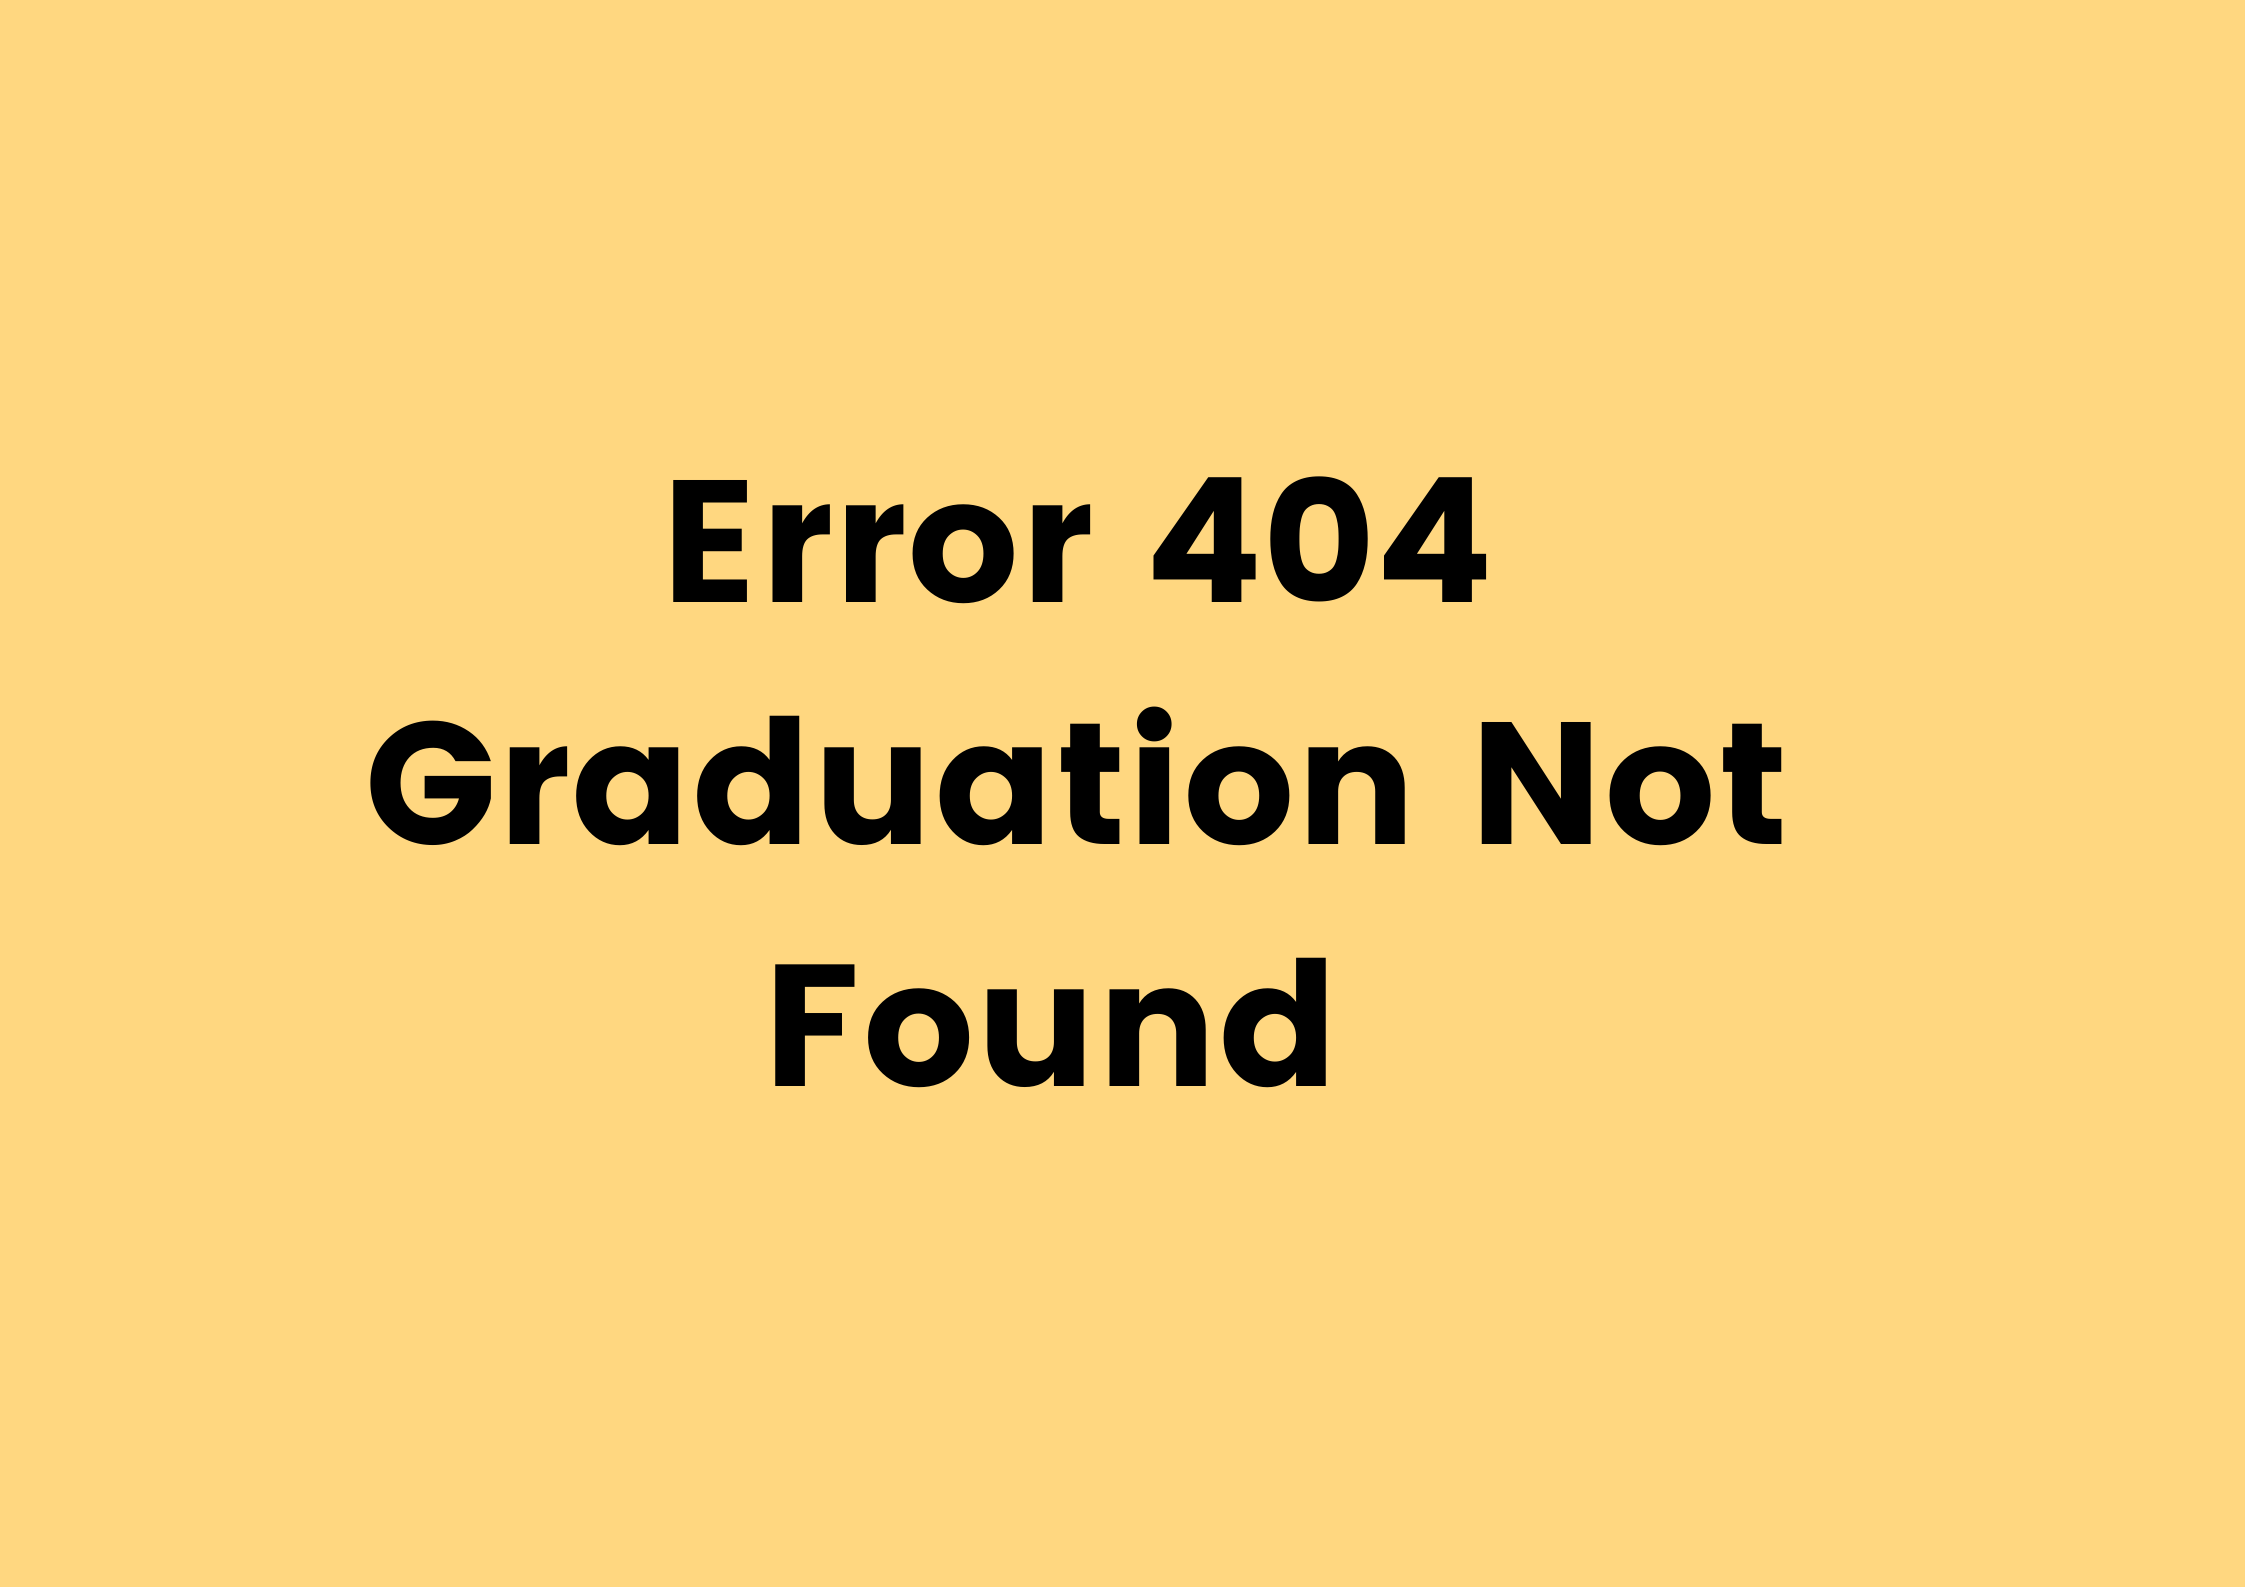
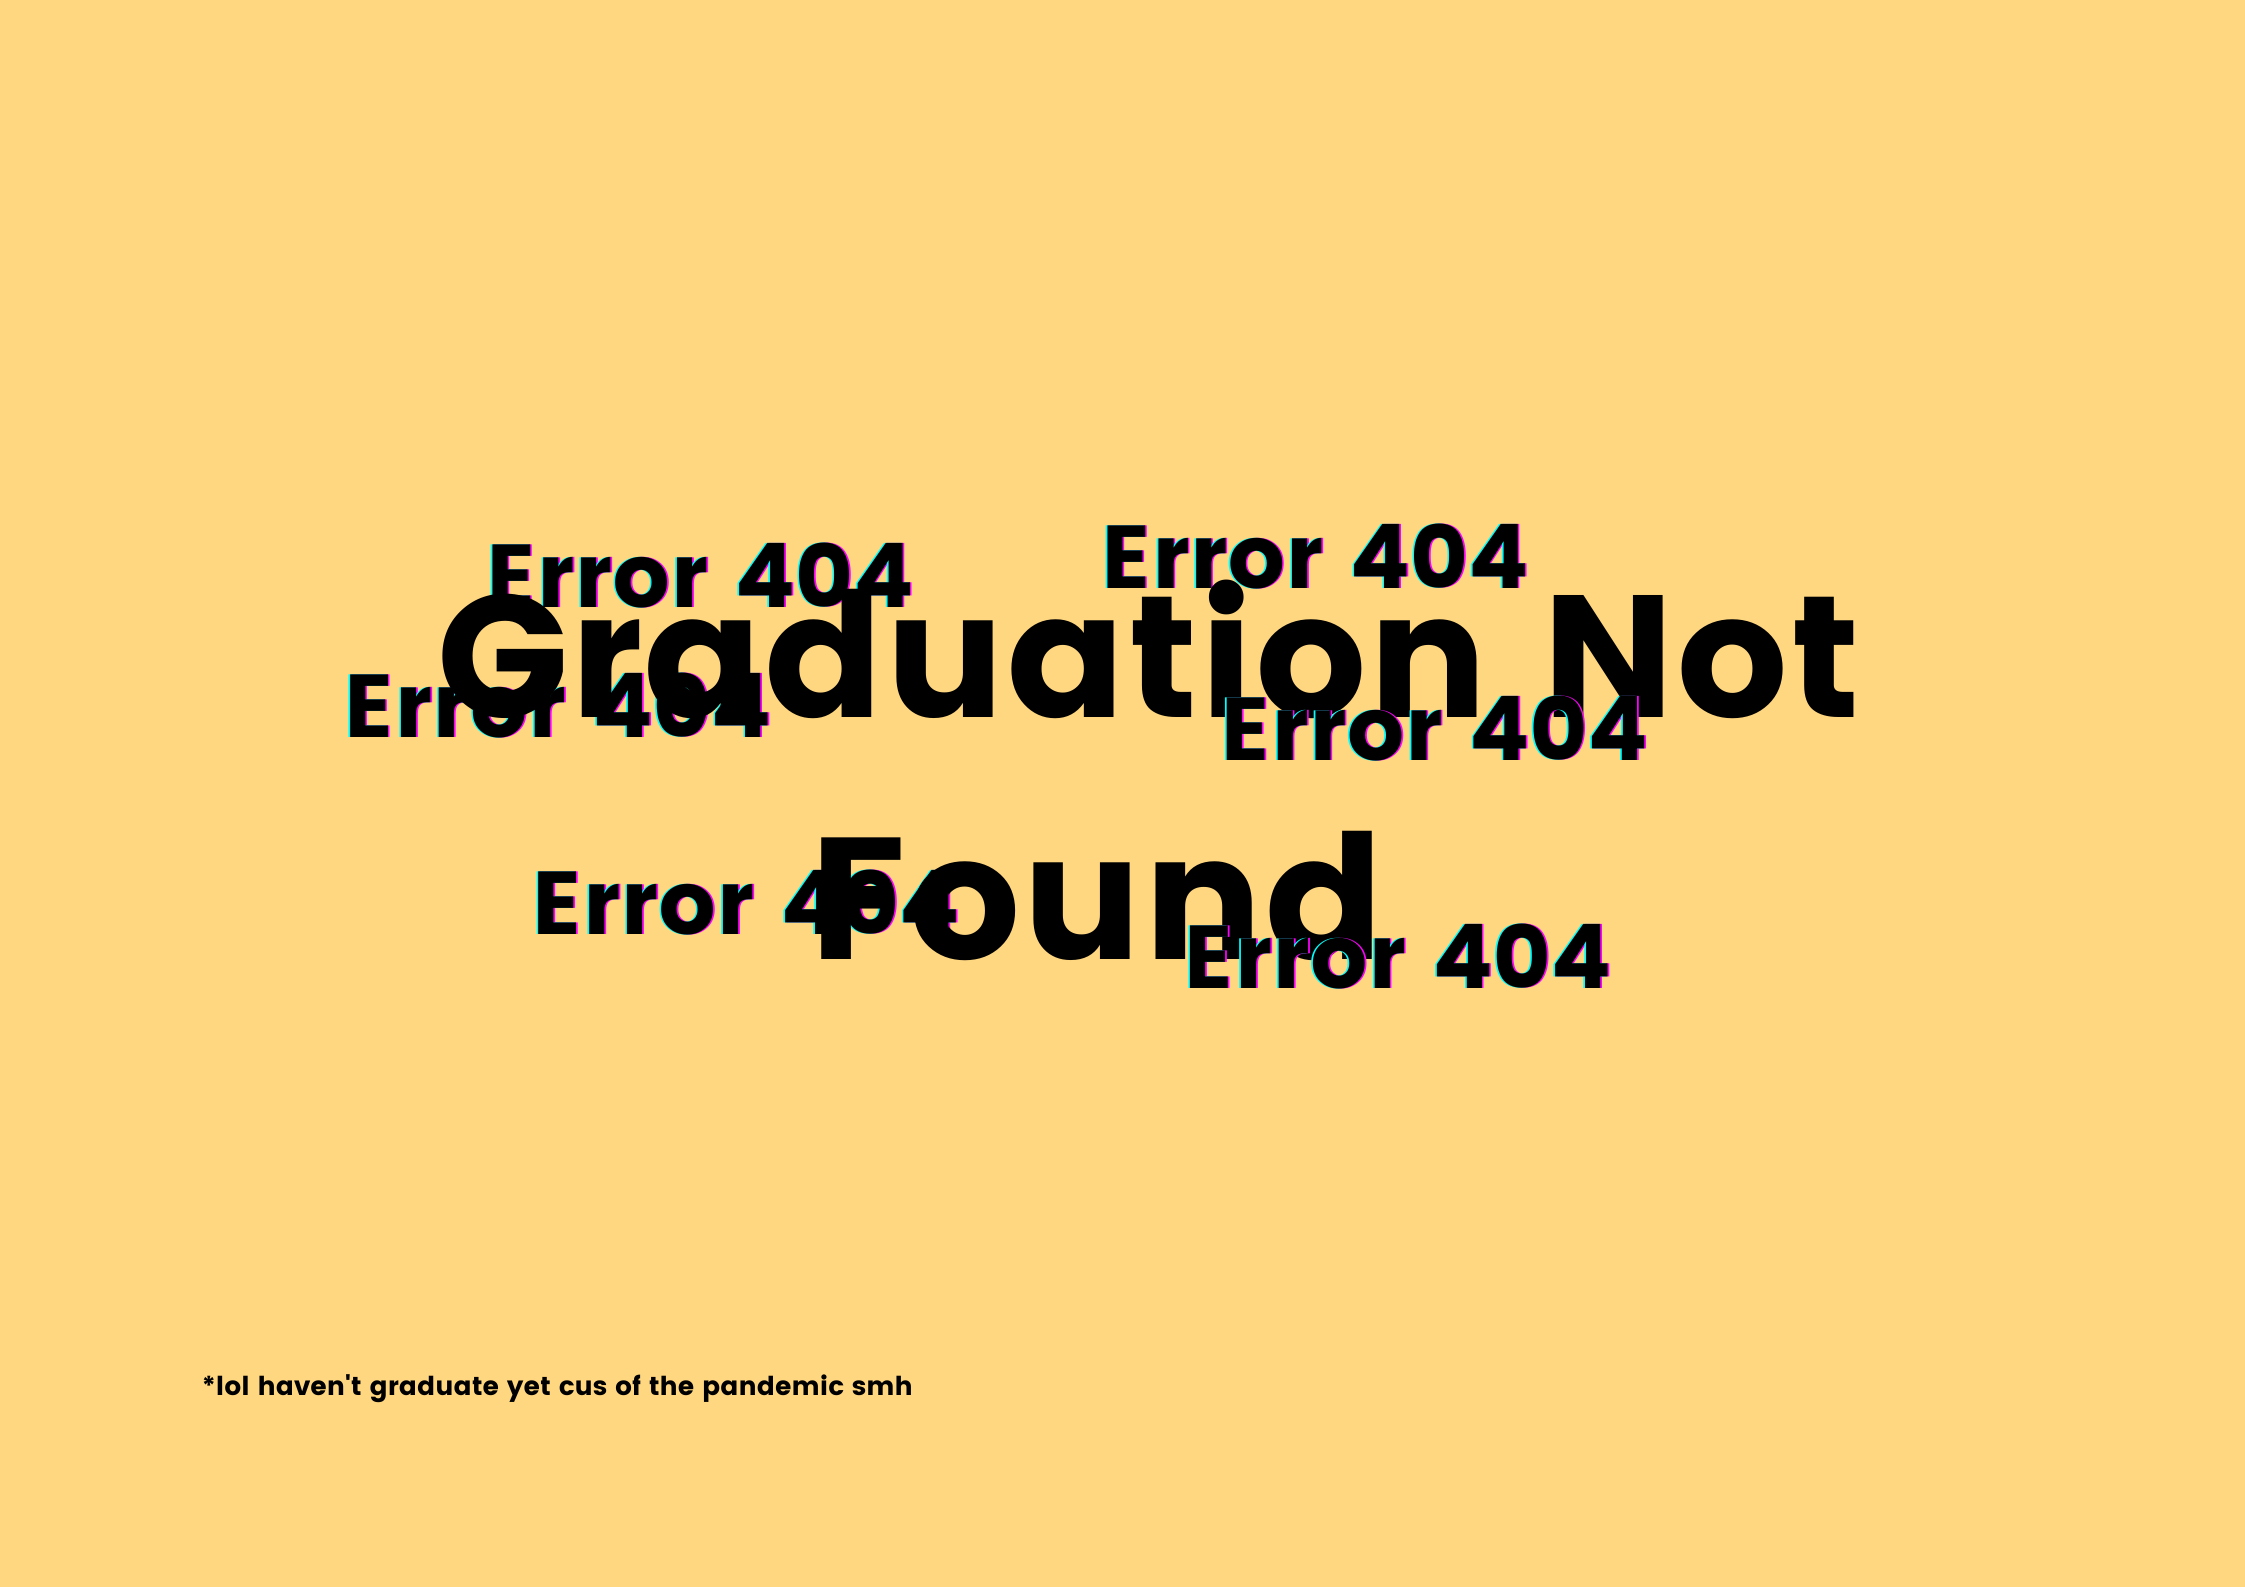
commit lol

Changed region(s): [[0.1559, 0.2779, 0.8419, 0.7101], [0.0935, 0.8645, 0.4053, 0.8954]]

diff --git a/css/main.css b/css/main.css
@@ -2,7 +2,7 @@
 body {
   height: 100vh;
   margin: 0;
-  font-family: "Poppins", arial;
+  font-family: 'Poppins', arial;
   background-color: #fff0c6;
 }
 
@@ -23,25 +23,36 @@ img {
 .nav-container {
   background: #292e43;
 }
+
 .nav-container a {
   color: #ef8b20;
 }
 
 header {
+  display: -webkit-box;
+  display: -ms-flexbox;
   display: flex;
-  justify-content: space-between;
+  -webkit-box-pack: justify;
+      -ms-flex-pack: justify;
+          justify-content: space-between;
   padding: 2em;
 }
+
 header .logo {
   color: #ef8b20;
   font-weight: bold;
 }
+
 header nav {
   float: right;
 }
+
 header nav ul {
+  display: -webkit-box;
+  display: -ms-flexbox;
   display: flex;
 }
+
 header nav ul a {
   display: block;
   padding: 0 1em;
@@ -54,6 +65,7 @@ header nav ul a {
 .hero {
   background: #292e43;
   color: #ef8b20;
+  display: -ms-grid;
   display: grid;
   text-align: center;
   padding: 4em;
@@ -72,15 +84,15 @@ section {
   text-transform: uppercase;
   font-weight: bold;
   color: purple;
-  letter-spacing: 0.2em;
-  font-size: 0.85em;
+  letter-spacing: .2em;
+  font-size: .85em;
 }
 
 .featured-title {
   color: black;
   font-weight: bold;
   font-size: 1.3em;
-  margin-top: -0.4em;
+  margin-top: -.4em;
   display: block;
 }
 
@@ -88,7 +100,7 @@ section {
   color: 3b3b3b;
   margin-bottom: 3em;
   font-size: 85em;
-  font-size: 0.9em;
+  font-size: .9em;
   line-height: 1.8em;
   font-weight: 500;
 }
@@ -103,18 +115,23 @@ section {
   border-radius: 1em;
   margin-bottom: 1em;
 }
+
 .skills-container ul li .icon-container {
   height: 60px;
+  display: -ms-grid;
   display: grid;
   place-content: center;
   margin: auto auto;
 }
+
 .skills-container ul li .icon-container.one {
   width: 80px;
 }
+
 .skills-container ul li .icon-container.two {
   width: 80px;
 }
+
 .skills-container ul li .icon-container.three {
   width: 80px;
 }
@@ -141,100 +158,100 @@ section {
   .featured, .portfolio {
     text-align: justify;
   }
-
   .header-desc {
     font-size: 20px;
   }
-
   .featured, .portfolio-container {
+    display: -ms-grid;
     display: grid;
-    grid-template-columns: 40% auto;
+    -ms-grid-columns: 40% auto;
+        grid-template-columns: 40% auto;
   }
-
   .left {
+    display: -ms-grid;
     display: grid;
     place-content: center;
   }
-
   .portfolio-left {
+    display: -ms-grid;
     display: grid;
     place-content: center;
     margin-left: 100px;
   }
-
   .portfolio-right {
+    display: -ms-grid;
     display: grid;
     place-content: center;
     margin-left: 100px;
   }
-
   .right {
     margin-left: 2em;
     margin-top: 1em;
   }
-
   .skills {
     margin-top: -5em;
     margin-bottom: -7em;
     padding-top: 7em;
   }
-
   .skills-container ul {
+    display: -ms-grid;
     display: grid;
-    grid-template-columns: repeat(3, auto);
+    -ms-grid-columns: (auto)[3];
+        grid-template-columns: repeat(3, auto);
     grid-gap: 1em;
   }
-
   .portfolio {
     padding-top: 7em;
   }
-
   .portfolio-container img {
     margin-left: 2em;
   }
 }
+
 @media only screen and (min-width: 1050px) {
   .hero {
     height: 50vh;
   }
-
   .nav-container {
+    display: -ms-grid;
     display: grid;
-    grid-template-columns: 66% auto;
+    -ms-grid-columns: 66% auto;
+        grid-template-columns: 66% auto;
     background: unset;
   }
   .nav-container header {
     background: #292e43;
   }
-
   header {
     padding: 2em 2em 2em 4em;
   }
-
   .social-header {
     padding: 2em 4em 2em 0;
   }
-
   section {
     padding: 4em;
   }
-
   .social-header {
     display: block;
   }
   .social-header ul {
+    display: -webkit-box;
+    display: -ms-flexbox;
     display: flex;
-    justify-content: space-between;
+    -webkit-box-pack: justify;
+        -ms-flex-pack: justify;
+            justify-content: space-between;
     width: 15em;
     float: right;
   }
   .social-header ul img {
     width: 50px;
   }
-
   .hero {
+    display: -ms-grid;
     display: grid;
-    grid-template-columns: 66% auto;
+    -ms-grid-columns: 66% auto;
+        grid-template-columns: 66% auto;
     background: unset;
     padding: 0;
   }
@@ -247,17 +264,16 @@ section {
     font-size: 3em;
     line-height: 1.2em;
   }
-
   .hero-design {
     display: unset;
     margin-left: -50%;
     margin-top: 15%;
     width: 100%;
   }
-
   .portfolio img {
     float: right;
     max-width: 600px;
     max-height: 200px;
   }
-}/*# sourceMappingURL=main.css.map */
+}
+/*# sourceMappingURL=main.css.map */

diff --git a/index.html b/index.html
@@ -55,7 +55,7 @@
             <div class="inner transition2">
                 <p class="subtitle">Bachelor of Computer Science(Honours)(Computer Security and Forensics)</p>
                 <a href="#" class="featured-title">Class of 2020</a>
-                <p class="featured-desc">Below is a picture of me graduating</p>
+                <p class="featured-desc">Here is a picture of me graduating</p>
                 <!-- <p class="featured-desc1">Below is a picture of me graduating</p> -->
             </div>
         </div>
